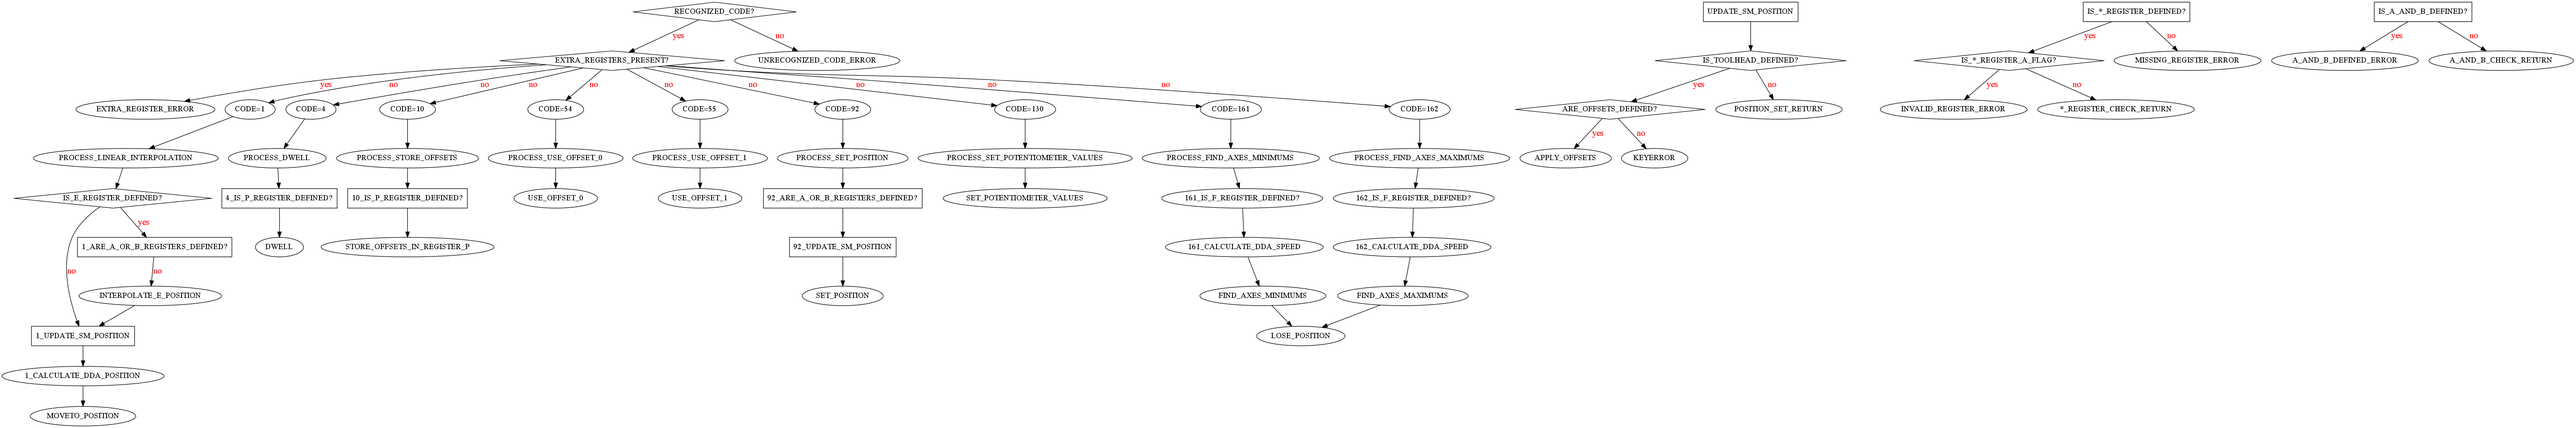
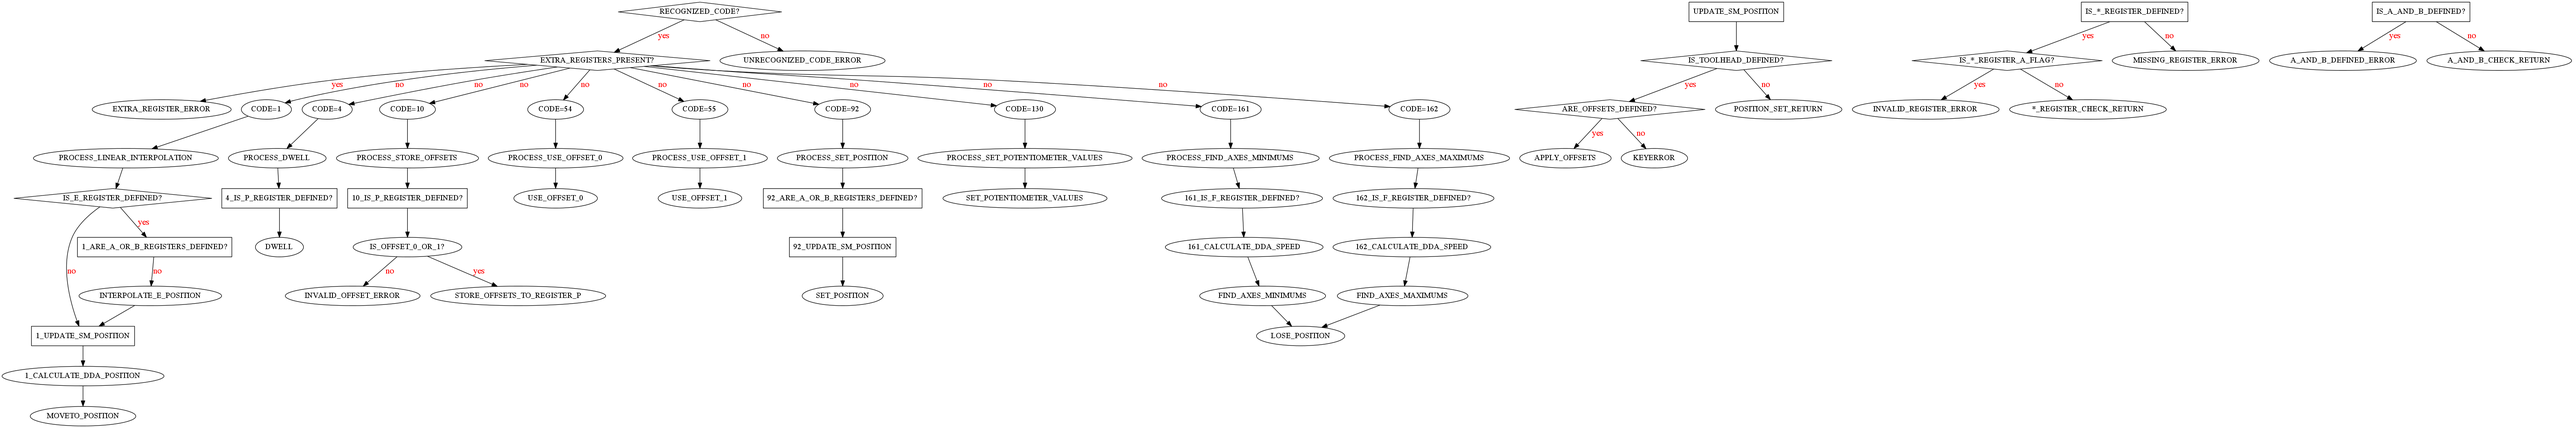
Fixed offsets, added offset register check, updated tests, docs, start sequences.

diff --git a/tests/test_parser.py b/tests/test_parser.py
@@ -196,14 +196,16 @@ class gcodeTests(unittest.TestCase):
         }
     self.assertRaises(KeyError, self.g.StoreOffsets, codes, [],  '')
 
-  def test_store_offsets_all_codes_defined(self):
-    self.g.state.offsetPosition[0] = {
-        'X' : 0,
-        'Y' : 0,
-        'Z' : 0,
-        'A' : 0,
-        'B' : 0,
+  def test_store_offsets_bad_offset(self):
+    codes = {
+        'P' : 0,
+        'X' : 1,
         }
+    flags = []
+    comments = ''
+    self.assertRaises(s3g.Gcode.InvalidOffsetError, self.g.StoreOffsets, codes, flags, comments)
+
+  def test_store_offsets_all_codes_defined(self):
     codes = {
         'X' : 1,
         'Y' : 2,
@@ -212,14 +214,14 @@ class gcodeTests(unittest.TestCase):
         }
     self.g.StoreOffsets(codes, [], '')
     expectedOffsets = {
-        0: {
+        1: {
             'X' : 1,
             'Y' : 2,
             'Z' : 3,
             'A' : 0,
             'B' : 0,
             },
-        1:  {
+        2:  {
             'X' : 0,
             'Y' : 0,
             'Z' : 0,
@@ -229,27 +231,27 @@ class gcodeTests(unittest.TestCase):
         }
     self.assertEqual(expectedOffsets, self.g.state.offsetPosition)
 
-  def test_use_p1_offsets_all_codes_accounted_for(self):
+  def test_use_p2_offsets_all_codes_accounted_for(self):
     codes = ''
     flags = ''
     self.assertEqual(codes, self.g.GCODE_INSTRUCTIONS[55][1])
     self.assertEqual(flags, self.g.GCODE_INSTRUCTIONS[55][2])
 
-  def test_use_p1_offsets(self):
+  def test_use_p2_offsets(self):
     codes = {}
-    self.g.UseP1Offsets(codes, [], '')
-    self.assertEqual(1, self.g.state.offset_register)
+    self.g.UseP2Offsets(codes, [], '')
+    self.assertEqual(2, self.g.state.offset_register)
 
-  def test_use_p0_offsets_all_codes_accounted_for(self):
+  def test_use_p1_offsets_all_codes_accounted_for(self):
     codes = ''
     flags = ''
     self.assertEqual(codes, self.g.GCODE_INSTRUCTIONS[54][1])
-    self.assertEqual(codes, self.g.GCODE_INSTRUCTIONS[55][2])
+    self.assertEqual(codes, self.g.GCODE_INSTRUCTIONS[54][2])
 
-  def test_use_p0_offsets(self):
+  def test_use_p1_offsets(self):
     codes = {}
-    self.g.UseP0Offsets(codes, [], '')
-    self.assertEqual(0, self.g.state.offset_register) 
+    self.g.UseP1Offsets(codes, [], '')
+    self.assertEqual(1, self.g.state.offset_register) 
 
   def test_set_position_all_codes_accounted_for(self):
     codes = 'XYZABE'

diff --git a/s3g/Gcode/parser.py b/s3g/Gcode/parser.py
@@ -25,8 +25,8 @@ class GcodeParser(object):
       1   : [self.LinearInterpolation,         'XYZABEF', ''],
       4   : [self.Dwell,                       'P',       ''],
       10  : [self.StoreOffsets,                'XYZP',    ''],
-      54  : [self.UseP0Offsets,                '',        ''],
-      55  : [self.UseP1Offsets,                '',        ''],
+      54  : [self.UseP1Offsets,                '',        ''],
+      55  : [self.UseP2Offsets,                '',        ''],
       92  : [self.SetPosition,                 'XYZABE',  ''],
       130 : [self.SetPotentiometerValues,      'XYZAB',   ''],
       161 : [self.FindAxesMinimums,            'F',       'XYZ'],
@@ -196,15 +196,15 @@ class GcodeParser(object):
     stepped_position = MultiplyVector(self.state.GetPosition(), self.state.GetAxesValues('steps_per_mm'))
     self.s3g.SetExtendedPosition(stepped_position)
       
-  def UseP0Offsets(self, codes, flags, comment):
+  def UseP1Offsets(self, codes, flags, comment):
     """Sets the state machine to use the P0 offset.
     """
-    self.state.offset_register = 0
+    self.state.offset_register = 1
 
-  def UseP1Offsets(self, codes, flags, comment):
+  def UseP2Offsets(self, codes, flags, comment):
     """Sets the state machine to use the P1 offset.
     """
-    self.state.offset_register = 1
+    self.state.offset_register = 2
 
   def WaitForToolReady(self, codes, flags, comment):
     """
@@ -291,7 +291,12 @@ class GcodeParser(object):
     We subtract one from the 'P' code because skeining engines store 
     designate P1 as the 0'th offset and P2 as the 1'th offset....dumb
     """
-    self.state.StoreOffset(codes['P']-1, [codes['X'], codes['Y'], codes['Z']])
+    valid_offsets = (1, 2)
+    if codes['P'] not in valid_offsets:
+      gcode_error = InvalidOffsetError()
+      gcode_error.values['InvalidOffset'] = codes['P']
+      raise gcode_error
+    self.state.StoreOffset(codes['P'], [codes['X'], codes['Y'], codes['Z']])
 
   def LinearInterpolation(self, codes, flags, comment):
     """Movement command that has two flavors: E and AB commands.

diff --git a/s3g/Gcode/states.py b/s3g/Gcode/states.py
@@ -18,14 +18,14 @@ class GcodeStates(object):
         }
 
     self.offsetPosition = {
-        0   :   {
+        1   :   {
                 'X' : 0,
                 'Y' : 0,
                 'Z' : 0,
                 'A' : 0,
                 'B' : 0,
                 },
-        1   :   {
+        2   :   {
                 'X' : 0,
                 'Y' : 0,
                 'Z' : 0,
@@ -37,7 +37,7 @@ class GcodeStates(object):
     self.values = {}
     self.wait_for_ready_packet_delay = 100  #ms
     self.wait_for_ready_timeout =   480  #seconds
-    self.offset_register = None   #Curent offset register
+    self.offset_register = None #Curent offset register
   
   def LosePosition(self, axes):
     """Given a set of axes, loses the position of

diff --git a/s3g/Gcode/errors.py b/s3g/Gcode/errors.py
@@ -130,6 +130,12 @@ class CalculateHomingDDAError(GcodeError):
   passed in.
   """
 
+class InvalidOffsetError(GcodeError):
+  """
+  An InvalidOffsetError is raised when an offset defined by the P code in a G10 command
+  is not a valid value (1, 2)
+  """
+
 class TCodeNotDefinedWarning:
   """
   A TCodeNotDefinedWarning is raised when a command is executed that should have a T command
